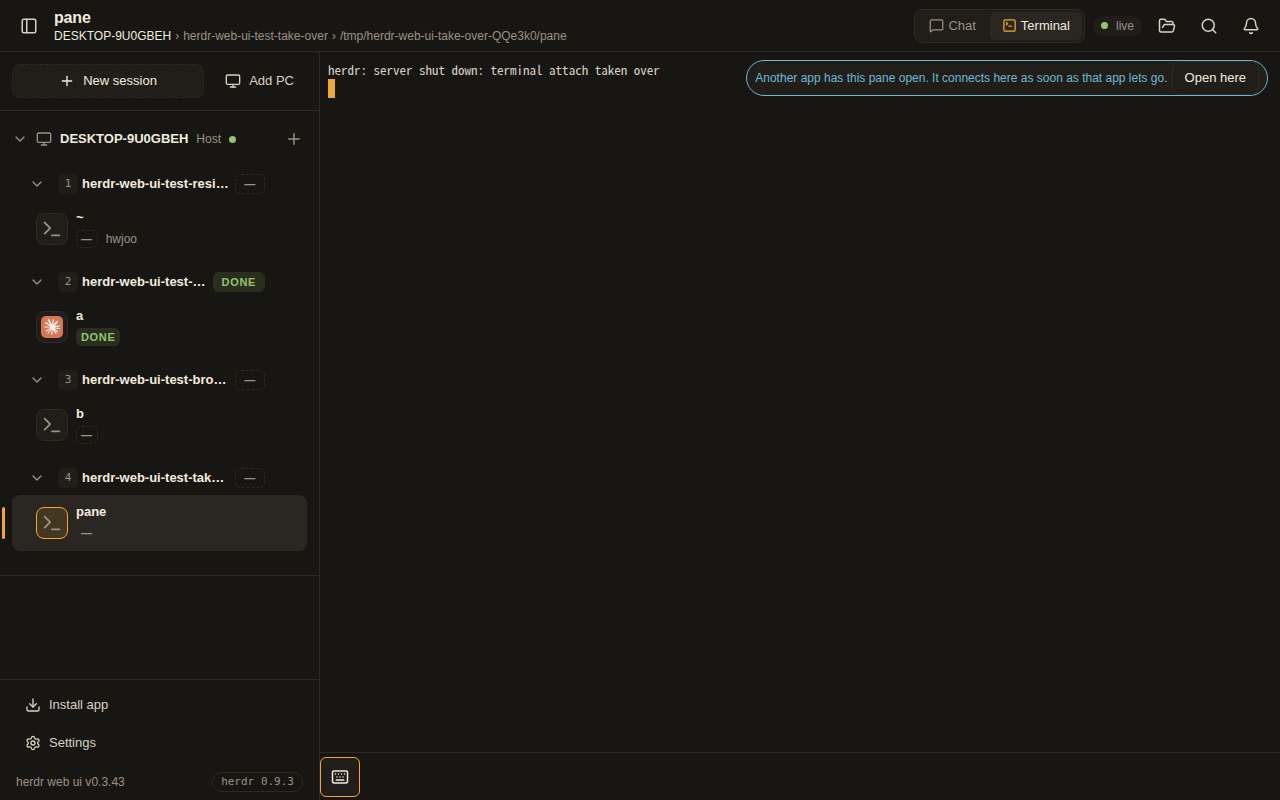
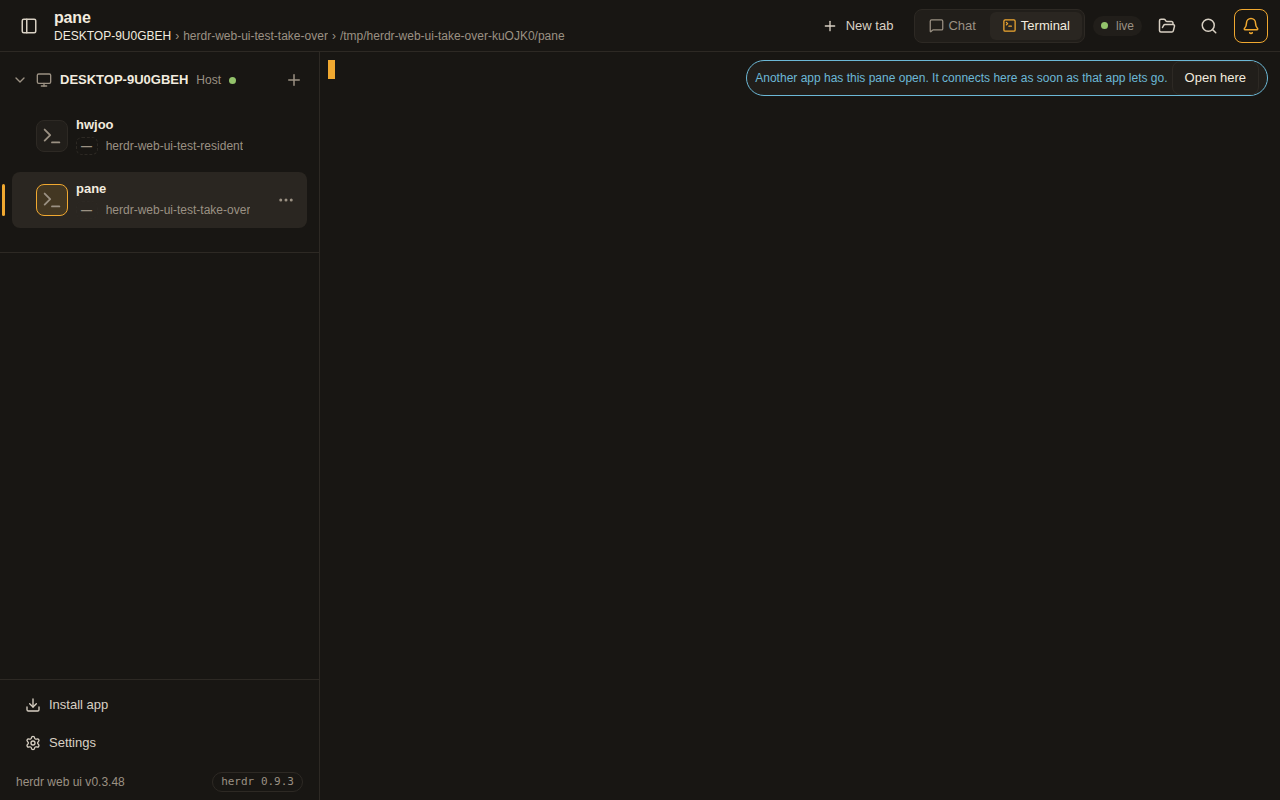
docs: refresh PR 368 review-fix evidence

diff --git a/README.md b/README.md
@@ -1,7 +1,15 @@
-# evidence/take-over-held-pane
+# PR #368 review-fix evidence
 
-PR 검증 자료입니다. 테스트 전용 herdr 세션과 같은 herdr를 보는 두 번째 웹 UI 서버로 생성했습니다.
+Code: `7750a41ef14a9647b6a8e5e516ad025a5fa27040`, after merging upstream `6992d0a`.
 
-- waiting.png: 다른 서버가 연 pane을 연 탭. 대기 안내와 여기서 열기 버튼
-- taken.png: 여기서 열기를 누른 뒤, 원래 열고 있던 탭. 같은 대기 안내와 버튼
-- ui-regression.log: bun scripts/ui-regression.ts 전체 출력
+All captures use owned test workspaces in an isolated herdr session. No live user terminal is shown.
+
+- `waiting.png`: a second web bridge waits and offers **Open here**.
+- `taken.png`: after the click, the displaced bridge waits and offers **Open here**, with no takeover diagnostic painted.
+- `ui-regression.log`: the focused `checkTakeOver` browser check from `scripts/take-over-regression.ts`, followed by browser/server cleanup; process exited **0**. This file now records the focused check, not the full UI suite.
+- `races-before.log`: both requested race regressions fail before the fixes.
+- `take-over-contract.log`: all five new lifecycle contract tests pass after the fixes.
+- `tui-result.json`: real herdr 0.9.3 measurement. An ordinary standalone attach exits 1 when displaced. The concurrent herdr TUI stays alive and displays fresh output from the new attachment. TUI keyboard input was not part of the successful measurement.
+- `validation.txt`: suite summaries and limitations, including the full-browser and file-viewer failures. Do not interpret this evidence as a clean full browser suite pass.
+
+Environment: WSL/Linux, Bun 1.4.2, Node 22.23.2 (the bundle-pinned runtime), herdr 0.9.3, Chromium 153. Core commands were `bun run generate:types --check`, `bun run typecheck`, `bun run build`, `bun run test:unit`, `bun run test:integration`, `bun run build:remote` and `bun run test:ssh`. The focused browser driver creates a temporary state directory and local server, calls `checkTakeOver`, closes the browser/server and removes its state.
